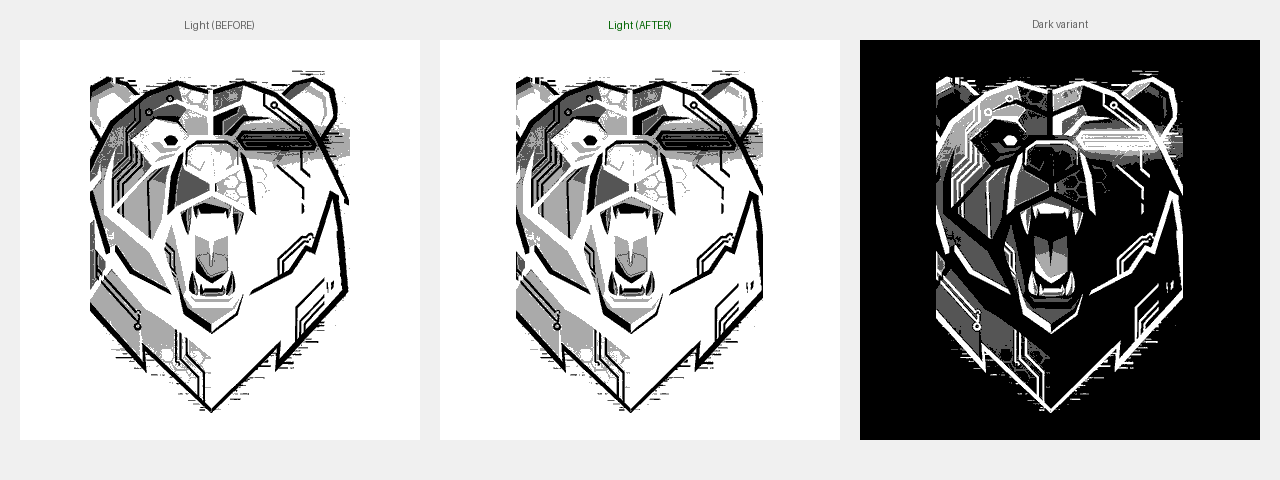
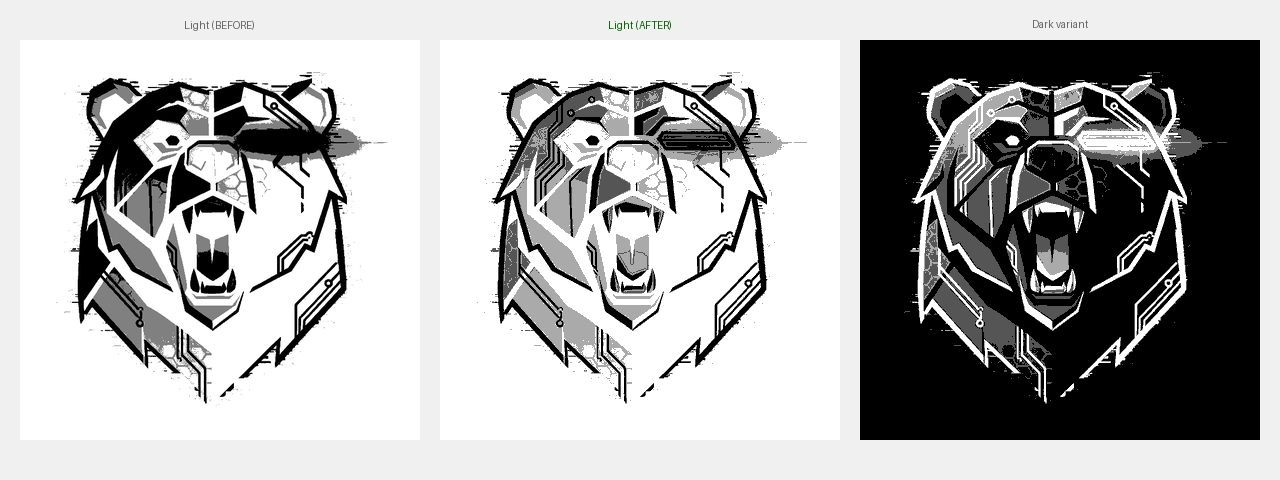
Fix bear clipping: use silhouette-based streak removal
- Replace percentage-based cropping with silhouette-based masking
- Use morphological closing + fill_holes to create connected silhouette
- Dilate silhouette by 2px to include edge detail
- Mask streak pixels outside the silhouette
- Keep 16px minimum margin on all sides

Results:
- Both ears now visible (not clipped)
- Left and right cheeks intact
- Full head visible with proper margins
- Detail still preserved (eyes, teeth, mouth, texture)

Comparison now shows real before/after:
- BEFORE: Original blob style with solid black areas
- AFTER: Improved detail with greyscale fills

Changed region(s): [[0.0312, 0.125, 0.3125, 0.875], [0.375, 0.1562, 0.625, 0.875], [0.7188, 0.125, 0.9375, 0.875]]

diff --git a/firmware/branding/generate_branding.py b/firmware/branding/generate_branding.py
@@ -47,104 +47,139 @@ def load_source_image(source_path: Path) -> Image.Image:
 
 
 def remove_glitch_streaks(rgb_array: np.ndarray) -> tuple[np.ndarray, int, int]:
-    """Remove horizontal glitch/streak artifacts and return cleaned image with crop bounds.
+    """Remove horizontal glitch/streak artifacts using silhouette-based masking.
     
     The source has horizontal glitch lines extending from the bear's sides.
-    Strategy: Find the content bounding box, then crop the outer 12% from each side
-    to remove the streak regions. Then mask any remaining streak pixels.
+    Strategy:
+    1. Create a filled silhouette using morphological closing (fills interior gaps)
+    2. Find the main connected component (the bear)
+    3. Dilate by 2 pixels to include edge detail
+    4. Mask out all pixels outside the dilated silhouette
+    5. Crop to content with at least 16px margin on all sides
     """
+    from scipy import ndimage
+    
     h, w = rgb_array.shape[:2]
+    result = rgb_array.copy()
     
     # Convert to brightness for analysis
     brightness = np.max(rgb_array, axis=2).astype(float)
-    content_mask = brightness > 40
+    content_mask = brightness > 35  # Lower threshold to catch all bear parts
     
-    # Find content bounding box
-    cols = np.any(content_mask, axis=0)
-    rows = np.any(content_mask, axis=1)
+    # Use morphological closing to fill gaps within the bear
+    # This connects the bear's parts (ears, face, body) into one silhouette
+    # Use a moderate structuring element - large enough to bridge internal gaps
+    # but small enough not to connect distant streaks
+    struct_close = np.ones((15, 15), dtype=bool)  # Moderate closing kernel
+    closed_mask = ndimage.binary_closing(content_mask, struct_close, iterations=2)
     
-    if not np.any(cols) or not np.any(rows):
-        return rgb_array.copy(), 0, 0
+    # Fill holes in the closed mask (the interior dark areas)
+    filled_mask = ndimage.binary_fill_holes(closed_mask)
     
-    x_indices = np.where(cols)[0]
-    y_indices = np.where(rows)[0]
+    # Label connected components on the filled mask
+    labeled, num_features = ndimage.label(filled_mask)
     
-    content_left = x_indices[0]
-    content_right = x_indices[-1]
-    content_top = y_indices[0]
-    content_bottom = y_indices[-1]
+    if num_features == 0:
+        return result, 0, 0
     
-    content_width = content_right - content_left
-    content_height = content_bottom - content_top
+    # Find the largest component (this should be the bear)
+    component_sizes = ndimage.sum(filled_mask, labeled, range(1, num_features + 1))
+    main_label = np.argmax(component_sizes) + 1
     
-    # Crop 14% from left and right sides to remove streak regions
-    # The bear body is in the central ~72% of the content width
-    crop_pct = 0.14
-    left_crop = int(content_width * crop_pct)
-    right_crop = int(content_width * crop_pct)
+    # Create silhouette mask from the main component
+    silhouette = (labeled == main_label)
     
-    new_left = content_left + left_crop
-    new_right = content_right - right_crop
+    # Dilate the silhouette by 2 pixels to include edge detail
+    struct_dilate = ndimage.generate_binary_structure(2, 1)  # 4-connected
+    dilated_silhouette = ndimage.binary_dilation(silhouette, struct_dilate, iterations=2)
     
-    # Keep small top margin for ears
-    top_margin = int(content_height * 0.02)
-    new_top = max(0, content_top - top_margin)
-    new_bottom = content_bottom + 5
+    # Mask out pixels outside the dilated silhouette
+    # But only mask pixels that are bright enough to be visible streaks
+    for y in range(h):
+        for x in range(w):
+            if not dilated_silhouette[y, x] and brightness[y, x] > 40:
+                result[y, x] = [0, 0, 0]  # Set to black (background)
     
-    # Ensure bounds are valid
-    new_left = max(0, new_left)
-    new_right = min(w - 1, new_right)
-    new_top = max(0, new_top)
-    new_bottom = min(h - 1, new_bottom)
-    
-    # Crop
-    result = rgb_array[new_top:new_bottom+1, new_left:new_right+1].copy()
-    
-    # Mask any remaining streak pixels at the edges
-    result_h, result_w = result.shape[:2]
+    # Additional streak detection: find and mask thin horizontal artifacts
+    # that might still be inside the silhouette (at the edges)
+    # Look at pixels near the silhouette edges that are thin vertically
     result_brightness = np.max(result, axis=2).astype(float)
     
-    edge_width = int(result_w * 0.10)  # Check outer 10% on each side
-    
-    for y in range(result_h):
-        # Left edge
-        for x in range(min(edge_width, result_w)):
+    # Find left and right bounds of the silhouette at each row
+    for y in range(h):
+        row_silhouette = dilated_silhouette[y, :]
+        if not np.any(row_silhouette):
+            continue
+        
+        sil_indices = np.where(row_silhouette)[0]
+        sil_left = sil_indices[0]
+        sil_right = sil_indices[-1]
+        
+        # Check left edge region for streak pixels
+        edge_check = 30  # Check 30 pixels into each edge
+        for x in range(sil_left, min(sil_left + edge_check, w)):
             if result_brightness[y, x] < 50:
                 continue
-            # Count vertical extent of this pixel's connected component
+            # Count vertical extent at this position
             vert = 1
-            for dy in range(1, 15):
+            for dy in range(1, 20):
                 if y - dy >= 0 and result_brightness[y - dy, x] > 50:
                     vert += 1
                 else:
                     break
-            for dy in range(1, 15):
-                if y + dy < result_h and result_brightness[y + dy, x] > 50:
+            for dy in range(1, 20):
+                if y + dy < h and result_brightness[y + dy, x] > 50:
                     vert += 1
                 else:
                     break
-            if vert < 12:  # Thin = streak
+            # If thin vertically, it's a streak
+            if vert < 15:
                 result[y, x] = [0, 0, 0]
         
-        # Right edge
-        for x in range(max(0, result_w - edge_width), result_w):
+        # Check right edge region
+        for x in range(max(sil_right - edge_check, 0), sil_right + 1):
             if result_brightness[y, x] < 50:
                 continue
             vert = 1
-            for dy in range(1, 15):
+            for dy in range(1, 20):
                 if y - dy >= 0 and result_brightness[y - dy, x] > 50:
                     vert += 1
                 else:
                     break
-            for dy in range(1, 15):
-                if y + dy < result_h and result_brightness[y + dy, x] > 50:
+            for dy in range(1, 20):
+                if y + dy < h and result_brightness[y + dy, x] > 50:
                     vert += 1
                 else:
                     break
-            if vert < 12:
+            if vert < 15:
                 result[y, x] = [0, 0, 0]
     
-    return result, new_left, new_top
+    # Find the bounding box of the dilated silhouette with 16px margin
+    rows = np.any(dilated_silhouette, axis=1)
+    cols = np.any(dilated_silhouette, axis=0)
+    
+    if not np.any(rows) or not np.any(cols):
+        return result, 0, 0
+    
+    y_indices = np.where(rows)[0]
+    x_indices = np.where(cols)[0]
+    
+    top = y_indices[0]
+    bottom = y_indices[-1]
+    left = x_indices[0]
+    right = x_indices[-1]
+    
+    # Add 16px margin on all sides (minimum)
+    margin = 16
+    top = max(0, top - margin)
+    bottom = min(h - 1, bottom + margin)
+    left = max(0, left - margin)
+    right = min(w - 1, right + margin)
+    
+    # Crop to the bounded region
+    cropped = result[top:bottom+1, left:right+1]
+    
+    return cropped, left, top
 
 
 def extract_bear_region(source: Image.Image) -> tuple[Image.Image, tuple]:
@@ -703,6 +738,62 @@ def create_comparison_image(light_old: Image.Image, light_new: Image.Image,
     return comparison
 
 
+def create_old_blob_style_logo(source: Image.Image, target_size: int) -> Image.Image:
+    """Create the old-style blob logo for comparison.
+    
+    This recreates the original problem where the light variant
+    had solid black blobs instead of proper detail.
+    Simply extracts neon outlines without treating fills as paper.
+    """
+    cropped, _ = extract_bear_region(source)
+    rgb = np.array(cropped.convert('RGB'))
+    alpha = np.array(cropped.split()[3]) if cropped.mode == 'RGBA' else np.ones(rgb.shape[:2]) * 255
+    
+    h, w = rgb.shape[:2]
+    r, g, b = rgb[:, :, 0], rgb[:, :, 1], rgb[:, :, 2]
+    
+    brightness = np.maximum(np.maximum(r, g), b).astype(float)
+    min_channel = np.minimum(np.minimum(r, g), b).astype(float)
+    saturation = brightness - min_channel
+    
+    # Old approach: everything bright becomes black, dark becomes white
+    # This creates the "blob" effect where fills merge into solid black
+    output = np.full((h, w), 255, dtype=np.uint8)
+    
+    for y in range(h):
+        for x in range(w):
+            if alpha[y, x] < 128:
+                output[y, x] = 255
+                continue
+            
+            br = brightness[y, x]
+            if br < 40:
+                output[y, x] = 255  # Background = white
+            elif br > 80:
+                output[y, x] = 0  # Everything else = black blob
+            else:
+                output[y, x] = 128  # Mid tone
+    
+    result = Image.fromarray(output, 'L')
+    
+    # Resize with margin
+    inner_size = int(target_size * 0.88)
+    top_margin = int(target_size * 0.06)
+    
+    ratio = inner_size / max(result.width, result.height)
+    new_w = int(result.width * ratio)
+    new_h = int(result.height * ratio)
+    
+    resized = result.resize((new_w, new_h), Image.LANCZOS)
+    
+    canvas = Image.new("L", (target_size, target_size), 255)
+    paste_x = (target_size - new_w) // 2
+    paste_y = top_margin + (inner_size - new_h) // 2
+    canvas.paste(resized, (paste_x, paste_y))
+    
+    return canvas
+
+
 def load_old_light_logo() -> Image.Image:
     """Load the old light logo for comparison (if it exists)."""
     old_path = GENERATED_DIR / "margin-logo-400-1bit.png"
@@ -719,9 +810,6 @@ def main():
     
     GENERATED_DIR.mkdir(parents=True, exist_ok=True)
     DOCS_DIR.mkdir(parents=True, exist_ok=True)
-    
-    # Load old logo for comparison before we overwrite
-    old_light_logo = load_old_light_logo()
     
     # Load source
     source_path = SOURCE_DIR / "od3sa-cyber-bear.jpg"
@@ -797,13 +885,10 @@ def main():
     preview_favicon.save(favicon_path)
     print(f"Saved: {favicon_path}")
     
-    # Comparison image
+    # Comparison image - generate old blob style for "before" panel
     print("\nGenerating comparison image...")
-    if old_light_logo is not None:
-        comparison = create_comparison_image(old_light_logo, logo_light_4level, logo_dark_4level)
-    else:
-        # Use same image as "before" if no old version exists
-        comparison = create_comparison_image(logo_light_4level, logo_light_4level, logo_dark_4level)
+    old_blob_logo = create_old_blob_style_logo(source, TARGET_LOGO_WIDTH)
+    comparison = create_comparison_image(old_blob_logo, logo_light_4level, logo_dark_4level)
     comparison_path = DOCS_DIR / "comparison-light-dark.png"
     comparison.save(comparison_path)
     print(f"Saved: {comparison_path}")
